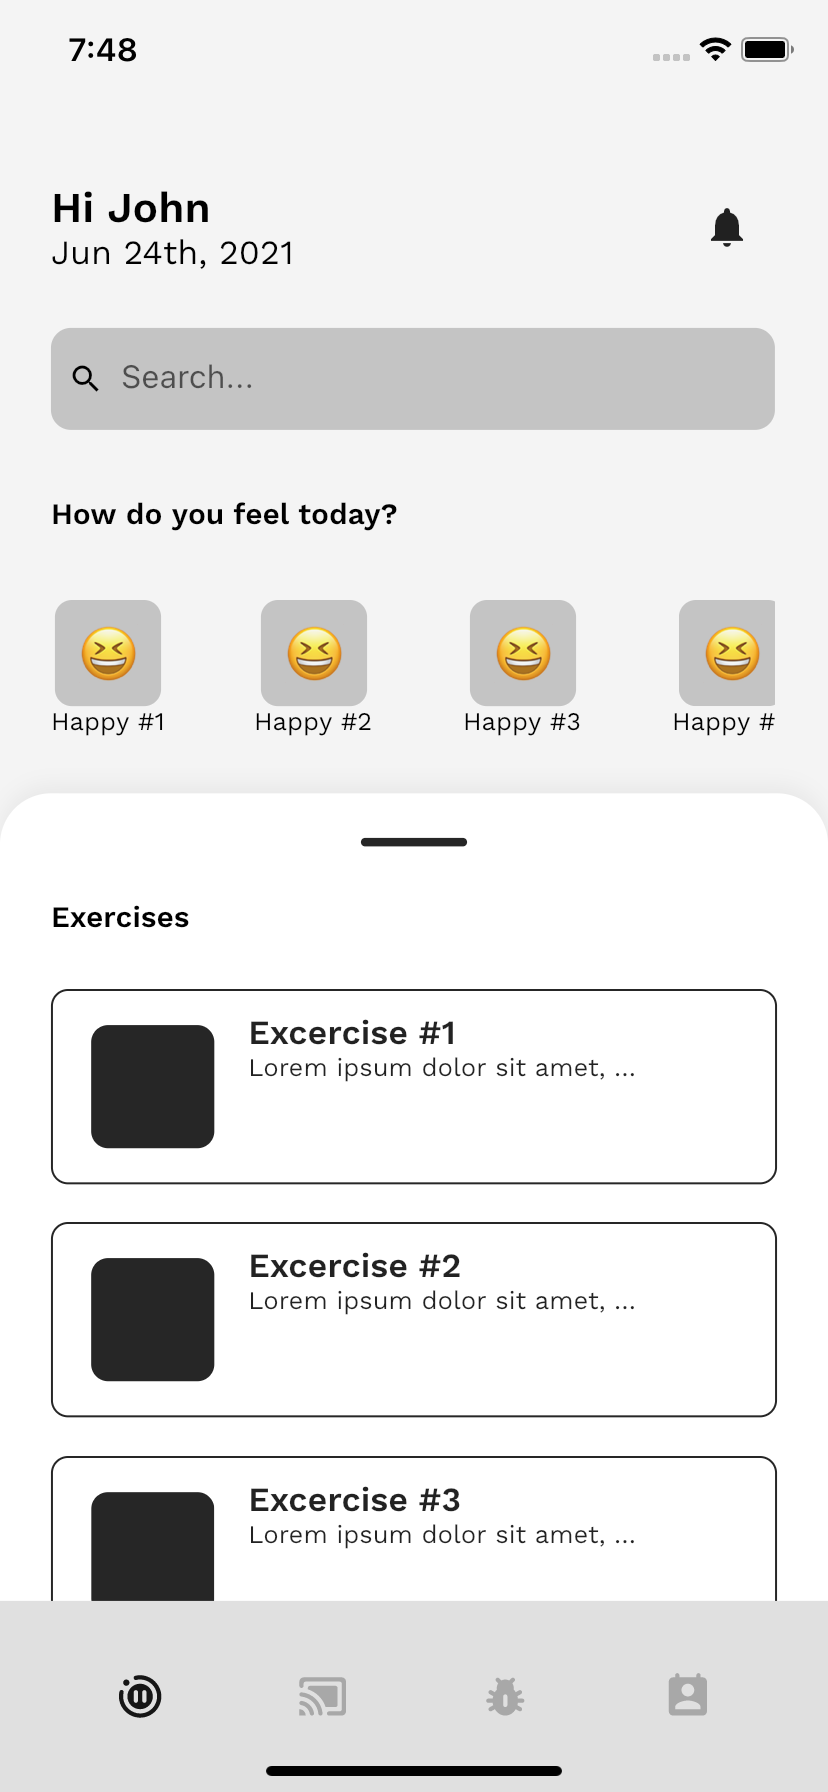
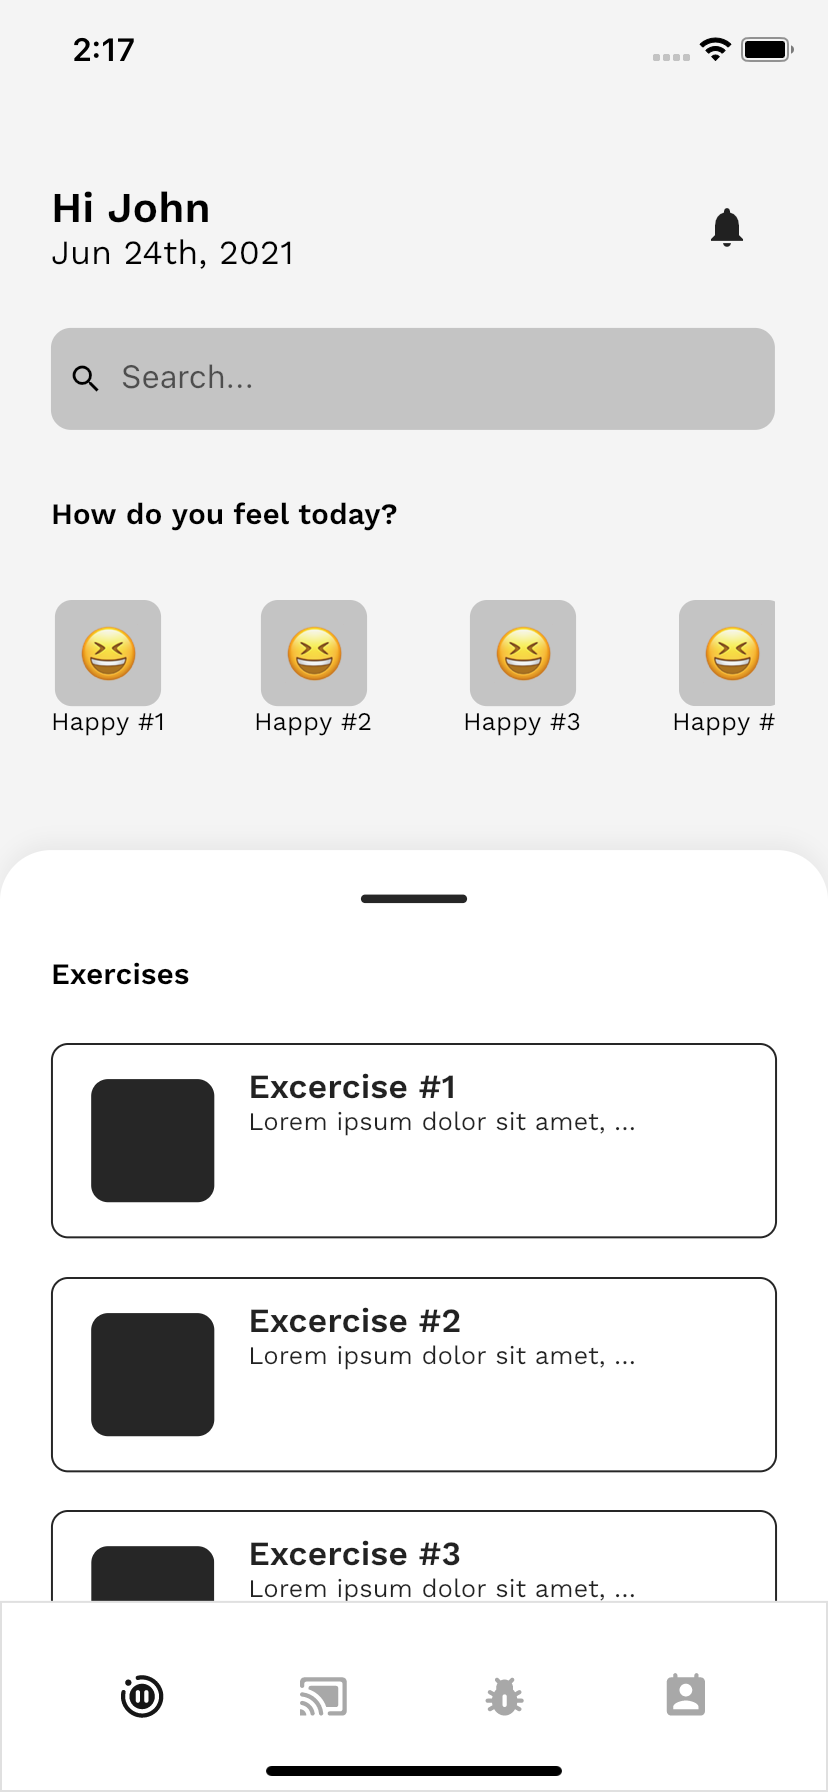
Edited screenshot

diff --git a/lib/src/mobile_ui/6/page6.dart b/lib/src/mobile_ui/6/page6.dart
@@ -37,8 +37,7 @@ class _Page6State extends State<Page6> {
             crossAxisAlignment: CrossAxisAlignment.stretch,
             children: [
               Padding(
-                padding: EdgeInsets.only(
-                    top: 39.h, bottom: 25.h, left: 24.w, right: 25.w),
+                padding: EdgeInsets.only(top: 39.h, bottom: 25.h, left: 24.w, right: 25.w),
                 child: Row(
                   crossAxisAlignment: CrossAxisAlignment.center,
                   mainAxisAlignment: MainAxisAlignment.spaceBetween,
@@ -71,8 +70,7 @@ class _Page6State extends State<Page6> {
                         ),
                       ],
                     ),
-                    IconButton(
-                        onPressed: () {}, icon: const Icon(Icons.notifications))
+                    IconButton(onPressed: () {}, icon: const Icon(Icons.notifications))
                   ],
                 ),
               ),
@@ -87,8 +85,7 @@ class _Page6State extends State<Page6> {
                       padding: EdgeInsets.symmetric(horizontal: 8.w),
                       child: const Icon(Icons.search, color: Colors.black),
                     ),
-                    prefixIconConstraints:
-                        BoxConstraints(maxHeight: 20.w, maxWidth: 35.w),
+                    prefixIconConstraints: BoxConstraints(maxHeight: 20.w, maxWidth: 35.w),
                     hintText: "Search...",
                     // hintStyle: textFieldPlaceholderTextStyle(context),
                     isDense: true,
@@ -131,8 +128,8 @@ class _Page6State extends State<Page6> {
                     SizedBox(
                       height: 74.h,
                       child: ListView.separated(
-                        physics: const BouncingScrollPhysics(
-                            parent: AlwaysScrollableScrollPhysics()),
+                        physics:
+                            const BouncingScrollPhysics(parent: AlwaysScrollableScrollPhysics()),
                         scrollDirection: Axis.horizontal,
                         itemCount: moods.length,
                         itemBuilder: (c, i) {
@@ -181,7 +178,7 @@ class _Page6State extends State<Page6> {
             ],
           ),
           DraggableScrollableSheet(
-              initialChildSize: 0.3,
+              initialChildSize: 0.4,
               minChildSize: 0.2,
               maxChildSize: 0.8,
               builder: (c, controller) {
@@ -194,9 +191,8 @@ class _Page6State extends State<Page6> {
       )),
       bottomNavigationBar: Container(
         height: 90.h,
-        decoration: BoxDecoration(
-            color: Colors.white,
-            border: Border.all(color: const Color(0xffE0E0E0))),
+        decoration:
+            BoxDecoration(color: Colors.white, border: Border.all(color: const Color(0xffE0E0E0))),
         child: Center(
           child: Padding(
             padding: EdgeInsets.only(left: 54.w, right: 54.w),

diff --git a/lib/src/mobile_ui/root/root.dart b/lib/src/mobile_ui/root/root.dart
@@ -8,6 +8,6 @@ class RootWidget extends StatelessWidget {
 
   @override
   Widget build(BuildContext context) {
-    return const Page8();
+    return const Page6();
   }
 }
